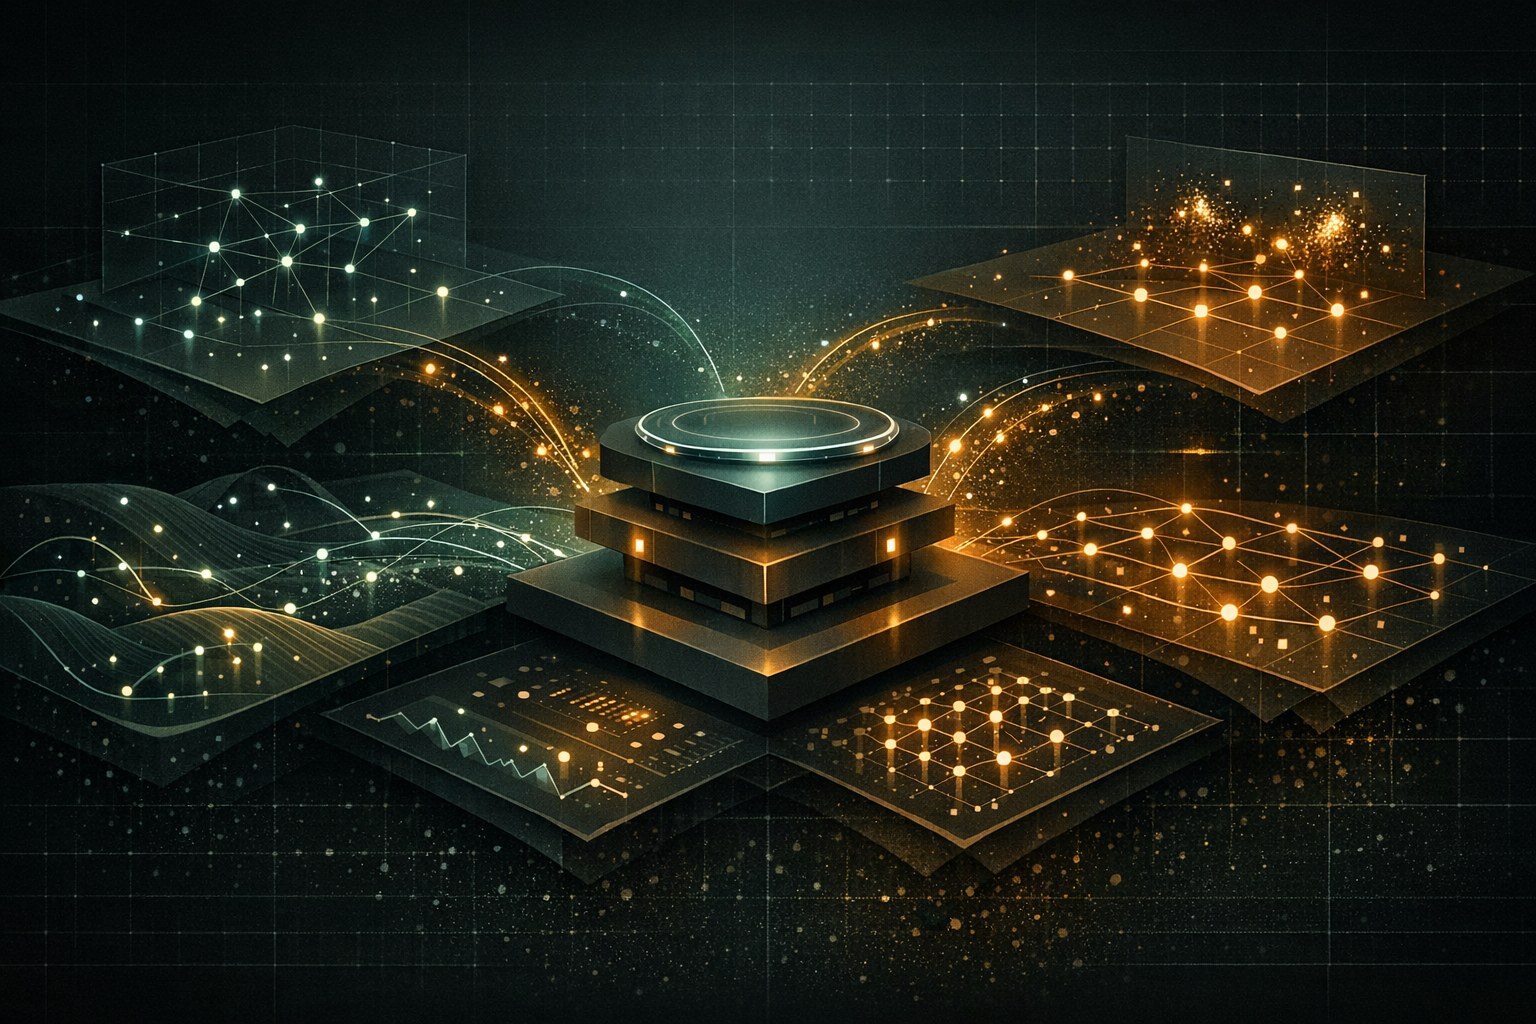
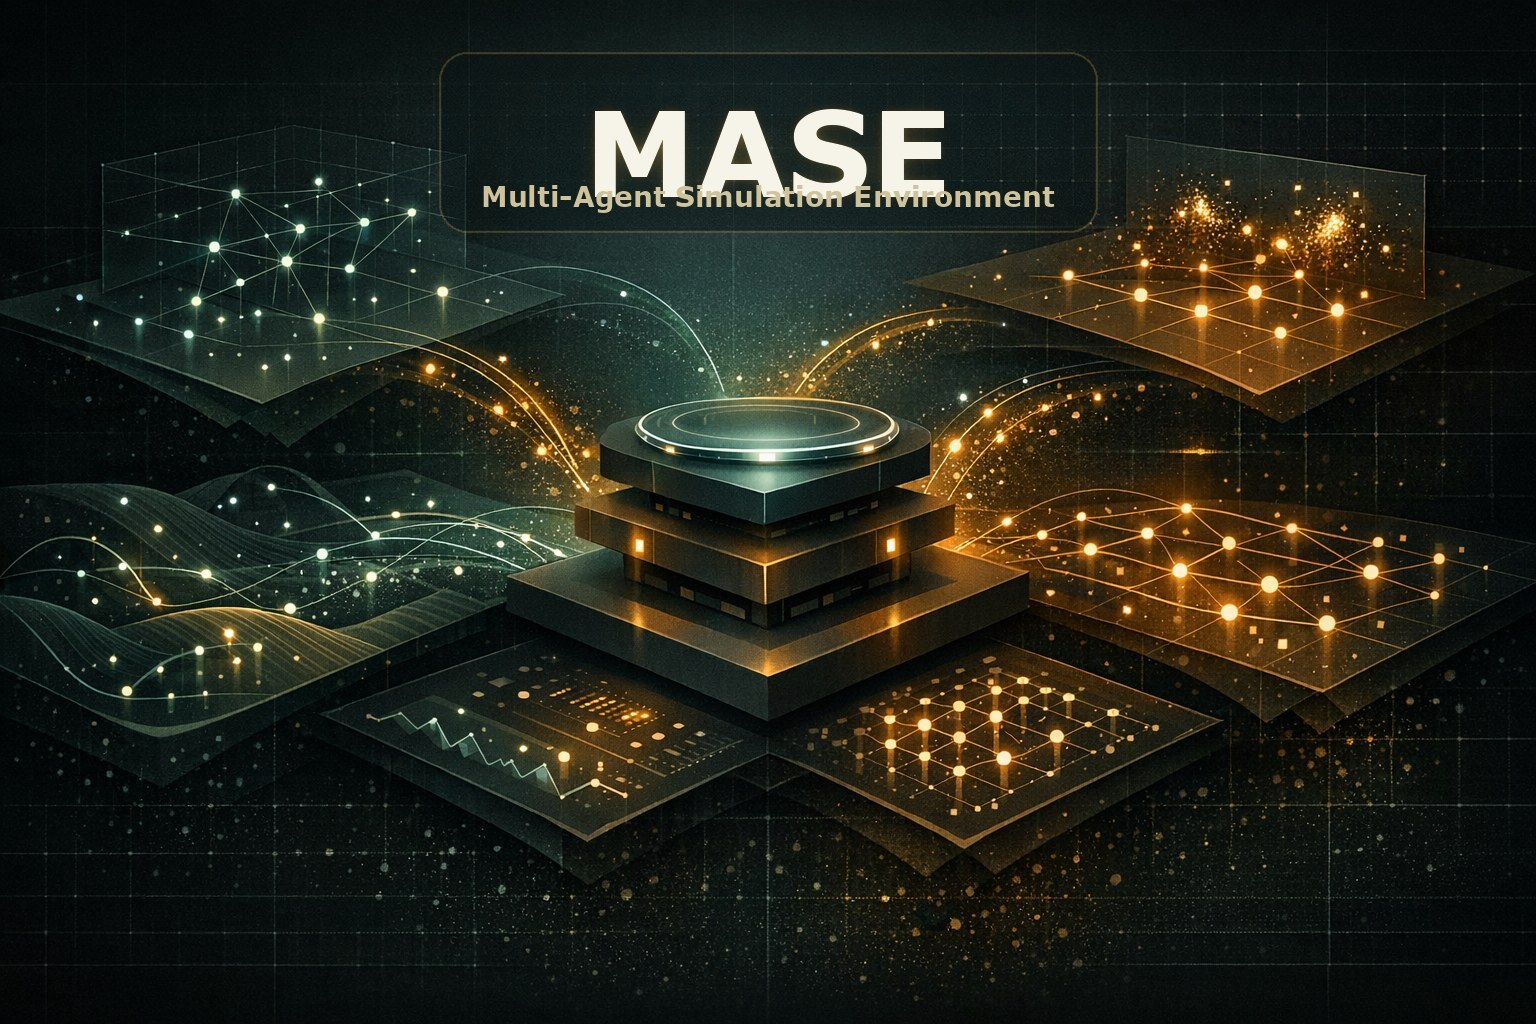
docs(readme): center hero and add MASE wordmark

Changed region(s): [[0.3125, 0.0938, 0.6875, 0.25]]

diff --git a/README.md b/README.md
@@ -1,18 +1,25 @@
-# MASE
+<div align="center">
+  <h1>MASE 🌐</h1>
+  <p><strong>Multi-Agent Simulation Environment</strong></p>
+  <p>Code-first infrastructure for running controlled multi-agent experiments.</p>
+  <p>
+    <img src="docs/assets/mase-concept.jpg" alt="MASE multi-agent concept image" width="920" />
+  </p>
+  <p>
+    <a href="https://github.com/icaro-lab/MASE/actions/workflows/ci.yml"><img src="https://github.com/icaro-lab/MASE/actions/workflows/ci.yml/badge.svg" alt="CI"></a>
+    <a href="LICENSE"><img src="https://img.shields.io/github/license/icaro-lab/MASE" alt="License"></a>
+    <a href="#next-steps"><img src="https://img.shields.io/badge/status-alpha-8a6d3b" alt="Status"></a>
+  </p>
+  <p>
+    <a href="https://icaro-lab.com/">Icaro Lab</a>
+    ·
+    <a href="https://www.dexai.eu/">DexAI</a>
+    ·
+    <a href="https://www.uniroma1.it/">Sapienza Università di Roma</a>
+  </p>
+</div>
 
-[![CI](https://github.com/icaro-lab/MASE/actions/workflows/ci.yml/badge.svg)](https://github.com/icaro-lab/MASE/actions/workflows/ci.yml)
-[![License](https://img.shields.io/github/license/icaro-lab/MASE)](LICENSE)
-[![Status](https://img.shields.io/badge/status-alpha-8a6d3b)](#next-steps)
-[![Icaro Lab](https://img.shields.io/badge/Icaro%20Lab-icaro--lab.com-1f4b43)](https://icaro-lab.com/)
-[![DexAI](https://img.shields.io/badge/DexAI-dexai.eu-7a4c2a)](https://www.dexai.eu/)
-[![Sapienza](https://img.shields.io/badge/Sapienza-uniroma1.it-8f1d2c)](https://www.uniroma1.it/)
-
-**Multi-Agent Simulation Environment**
-
-![MASE multi-agent concept image](docs/assets/mase-concept.jpg)
-
-MASE is a code-first platform for running controlled multi-agent experiments.
-It is created and maintained by [Icaro Lab](https://github.com/icaro-lab).
+MASE is created and maintained by [Icaro Lab](https://github.com/icaro-lab).
 
 The goal is to keep the core model small:
 
